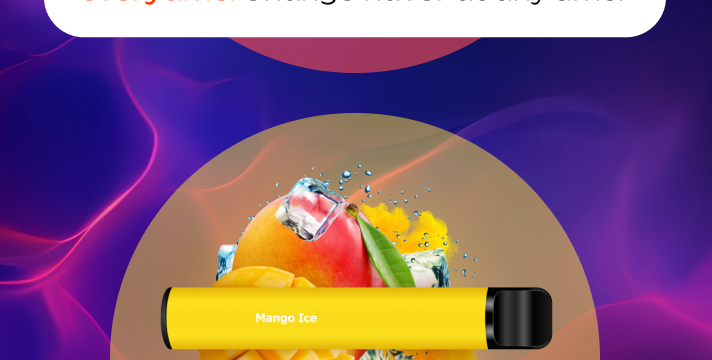
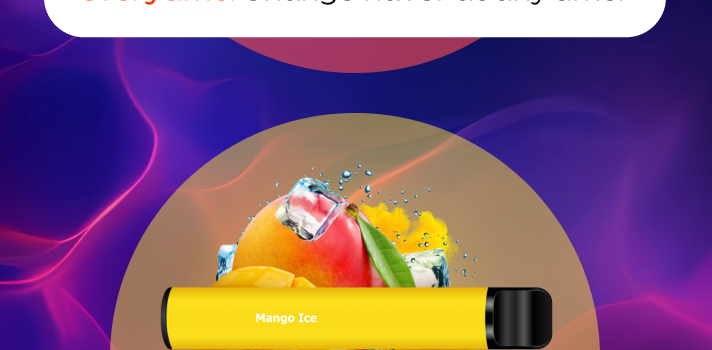
fix: VapeSubscription - CSS gradient bg only, HTML header, tight circle crops, single text pills

diff --git a/components/HomePage/VapeSubscription.tsx b/components/HomePage/VapeSubscription.tsx
@@ -5,20 +5,14 @@ import Image from 'next/image'
 const circles = [
     {
         img: '/subscription/circle1.png',
-        w: 712,
-        h: 365,
-        text: <>Subscribe to get favourite flavour <em style={{ color: '#fe3500' }}>everytime.</em> Change flavor at any time.</>,
+        text: <>Subscribe to get favourite flavour <em style={{ color: '#fe3500', fontStyle: 'normal' }}>everytime.</em> Change flavor at any time.</>,
     },
     {
         img: '/subscription/circle2.png',
-        w: 712,
-        h: 360,
         text: <>No need to visit the store - we will deliver <em style={{ color: '#fe3500' }}>a free vape box monthly.</em></>,
     },
     {
         img: '/subscription/circle3.png',
-        w: 712,
-        h: 360,
         text: <>Only <em style={{ color: '#fe3500' }}>original</em> vapes from the producer - 100% quality guarantee.</>,
     },
 ]
@@ -26,37 +20,45 @@ const circles = [
 const VapeSubscription = () => {
     return (
         <section
-            className="w-full overflow-hidden"
+            className="w-full overflow-hidden py-10"
             style={{
                 background: 'linear-gradient(180deg, #1a0533 0%, #2d0a4e 35%, #1a1040 70%, #0d1a3e 100%)',
             }}
         >
-            {/* Header from Figma */}
-            <div className="w-full">
-                <Image
-                    src="/subscription/header.png"
-                    alt="Vape Subscription - Make your life easier"
-                    width={712}
-                    height={295}
-                    className="w-full h-auto"
-                    sizes="100vw"
-                />
+            {/* Header — HTML only, no image */}
+            <div className="w-11/12 mx-auto mb-8">
+                <h2 className="font-unbounded font-black text-3xl text-white uppercase leading-tight">
+                    VAPE{' '}
+                    <span style={{ color: '#FFD600' }}>SUBSCRIPTION</span>
+                </h2>
+                <p className="font-unbounded font-bold text-2xl text-white italic mt-1">
+                    Make your life easier
+                </p>
+                <div className="flex items-start gap-2 mt-4">
+                    <span className="text-2xl leading-none font-thin" style={{ color: '#fe3500' }}>{'{'}</span>
+                    <p className="text-white text-sm">
+                        Save on time, subscribe for monthly delivery.{' '}
+                        <strong>Free shipping for orders $89+</strong>
+                    </p>
+                </div>
             </div>
 
             {/* 3 circles + text pills */}
             {circles.map((item, i) => (
-                <div key={i} className="w-full flex flex-col items-center">
-                    {/* Circle image from Figma */}
-                    <Image
-                        src={item.img}
-                        alt={`Subscription circle ${i + 1}`}
-                        width={item.w}
-                        height={item.h}
-                        className="w-full h-auto"
-                        sizes="100vw"
-                    />
-                    {/* White text pill */}
-                    <div className="bg-white rounded-2xl px-5 py-3 mx-6 mb-8 shadow-lg max-w-xs -mt-2">
+                <div key={i} className="w-full flex flex-col items-center mb-6">
+                    {/* Circle image — only the circle, no text */}
+                    <div className="w-full">
+                        <Image
+                            src={item.img}
+                            alt={`Subscription flavour ${i + 1}`}
+                            width={712}
+                            height={350}
+                            className="w-full h-auto"
+                            sizes="100vw"
+                        />
+                    </div>
+                    {/* White text pill — HTML only */}
+                    <div className="bg-white rounded-2xl px-5 py-3 mx-6 shadow-lg max-w-xs -mt-2">
                         <p className="text-black text-sm leading-snug">{item.text}</p>
                     </div>
                 </div>
